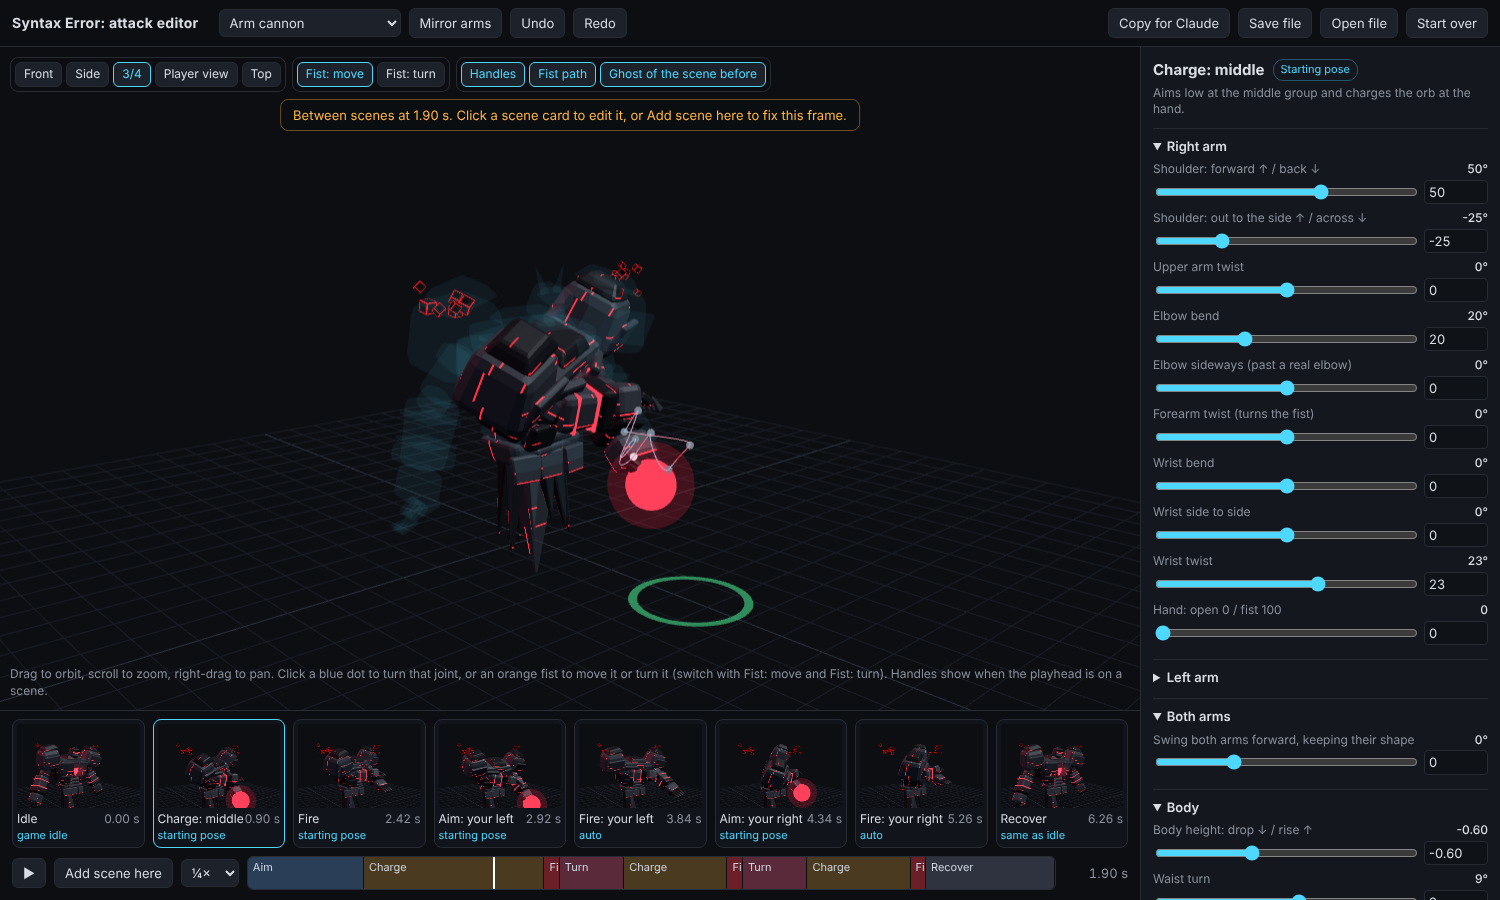
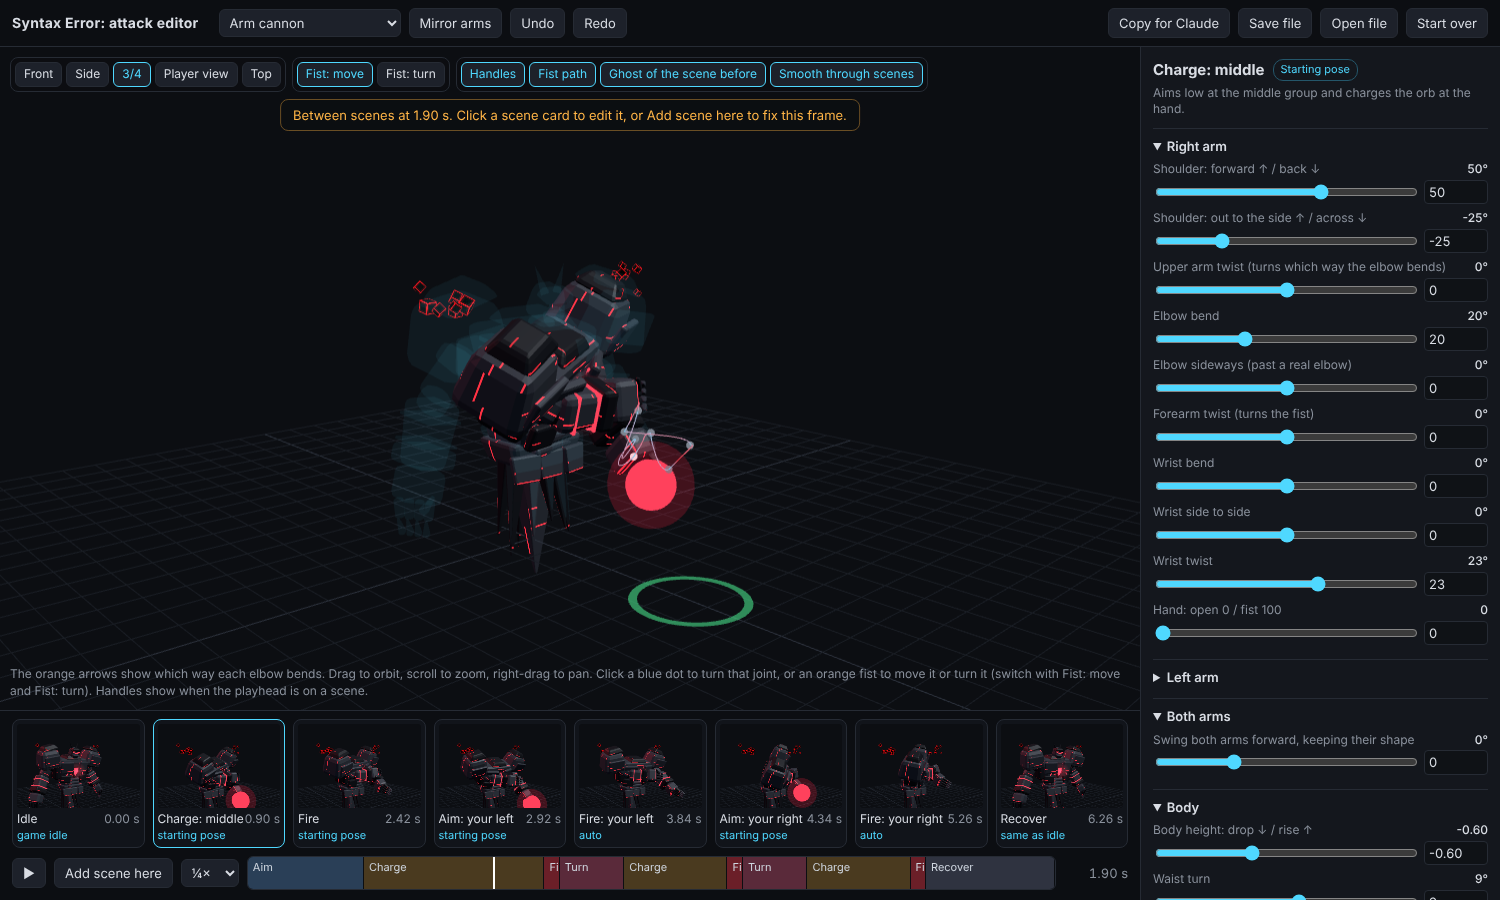
Attack editor: arrows show which way each elbow bends
The upper-arm twist turns an elbow's bend, and a large twist (Gid's idle had 100 degrees
from before the hand fix) points the forearms out and back. An arrow at each elbow shows
the bend direction, and the twist slider says what it does.

Claude-Session: https://claude.ai/code/session_01MQWzxTE7u1eeEzMzyN6zb9

diff --git a/tools/pose-editor/index.html b/tools/pose-editor/index.html
@@ -100,7 +100,7 @@
       </div>
     </div>
     <div id="between" hidden></div>
-    <div id="hint">Drag to orbit, scroll to zoom, right-drag to pan. Click a blue dot to turn that joint, or an orange fist to move it or turn it (switch with Fist: move and Fist: turn). Handles show when the playhead is on a scene.</div>
+    <div id="hint">The orange arrows show which way each elbow bends. Drag to orbit, scroll to zoom, right-drag to pan. Click a blue dot to turn that joint, or an orange fist to move it or turn it (switch with Fist: move and Fist: turn). Handles show when the playhead is on a scene.</div>
   </div>
   <aside>
     <div class="scenehead"><h2 id="sceneName">Strike</h2><span class="badge" id="badge"></span><span class="sp" style="flex:1"></span><button id="toAuto" hidden>Reset this scene</button><button id="delScene" hidden>Delete this scene</button></div>
@@ -197,7 +197,7 @@ for (const [k, side, grp] of [['R', 'right', 'Right arm'], ['L', 'left', 'Left a
   // human couldn't do
   field(`shoulder${k}.flex`, 'Shoulder: forward ↑ / back ↓', grp, -180, 180);
   field(`shoulder${k}.abd`, 'Shoulder: out to the side ↑ / across ↓', grp, -90, 180);
-  field(`shoulder${k}.twist`, 'Upper arm twist', grp, -180, 180);
+  field(`shoulder${k}.twist`, 'Upper arm twist (turns which way the elbow bends)', grp, -180, 180);
   field(`elbow${k}.flex`, 'Elbow bend', grp, -60, 180);
   field(`elbow${k}.side`, 'Elbow sideways (past a real elbow)', grp, -90, 90);
   field(`elbow${k}.twist`, 'Forearm twist (turns the fist)', grp, -180, 180);
@@ -617,6 +617,14 @@ const HANDLE = [
   ['chest', B.chest, [0, 0, 0], 'rot'], ['spine', B.spine, [0, 0, 0], 'rot'], ['head', B.head, [0, 0, 0], 'rot'], ['hips', B.hips, [0, 0, 0], 'move'],
 ];
 const handleMeshes = [];
+// an arrow at each elbow showing which way it bends: the upper arm's twist turns it, the elbow's own
+// twist only rolls the forearm
+const bendArrows = ['R', 'L'].map(k => {
+  const R0 = rig.rest['elbow' + k], a = R0.a.clone(), f = R0.f.clone().sub(a.clone().multiplyScalar(R0.f.dot(a))).normalize();
+  const ar = new THREE.ArrowHelper(f, B['fore' + k].position.clone(), 2.6, 0xffb547, 0.7, 0.45);
+  ar.traverse(o => { o.userData.jcSkip = true; if (o.material) { o.material.depthTest = false; o.material.transparent = true; o.material.opacity = 0.9; } o.renderOrder = 11; });
+  B['arm' + k].add(ar); return ar;
+});
 for (const [name, bone, off, kind] of HANDLE) {
   const m = new THREE.Mesh(new THREE.SphereGeometry(kind === 'ik' ? 0.55 : 0.38, 16, 12), new THREE.MeshBasicMaterial({ color: kind === 'ik' ? '#ffb547' : '#4fd8ff', depthTest: false, transparent: true, opacity: 0.9 }));
   m.renderOrder = 10; m.userData = { jcSkip: true, handle: name, kind, bone }; m.position.set(...off);
@@ -930,7 +938,7 @@ const tcam = new THREE.PerspectiveCamera(32, 320 / 220, 0.1, 300); tcam.position
 function renderThumb(id) {
   const vis = [tc.getHelper().visible, path.visible, keyDots.visible, ghost.group.visible];
   tc.getHelper().visible = path.visible = keyDots.visible = ghost.group.visible = false;
-  handleMeshes.forEach(h => { h.visible = false; });
+  handleMeshes.forEach(h => { h.visible = false; }); bendArrows.forEach(a => { a.visible = false; });
   const size = renderer.getSize(new THREE.Vector2()), pr = renderer.getPixelRatio();
   poseKey(kit, id); kit.group.position.y = 0; kit.group.updateMatrixWorld(true);
   renderer.setScissorTest(true); renderer.setViewport(0, 0, 320 / pr, 220 / pr); renderer.setScissor(0, 0, 320 / pr, 220 / pr);
@@ -1079,6 +1087,7 @@ function frame() {
   path.visible = keyDots.visible = showPath;
   const on = onScene();
   handleMeshes.forEach(h => { h.visible = showHandles && on; });
+  bendArrows.forEach(a => { a.visible = showHandles && on; });
   if (!on && tc.object) { tc.detach(); grab = null; }
   tc.getHelper().visible = !playing && !!tc.object;
   $('addScene').disabled = playing || on;
@@ -1164,7 +1173,7 @@ window.editor = {
   turn: (name, e) => { select(name); const h = HANDLE.find(x => x[0] === name); h[1].rotation.set(...e); const want = h[1].quaternion.clone(); onGizmo(); poseKey(kit, cur); return { deg: +(2 * Math.acos(Math.min(1, Math.abs(want.dot(h[1].quaternion)))) * R2D).toFixed(2), spec: round(R[cur]) }; },
   turnFist: (k, e) => { setFist('turn'); select('fist' + k); B['hand' + k].rotation.set(...e); onGizmo(); const w = new THREE.Quaternion(); poseKey(kit, cur); kit.group.updateMatrixWorld(true); B['hand' + k].getWorldQuaternion(w); return { cur, q: w.toArray().map(x => +x.toFixed(3)) }; },
   cur: () => cur, time: () => time,
-  near: t => sceneNear(t), add: t => { time = t; addSceneAt(t); return cur; }, del: id => deleteScene(id), segs: () => SEGS, scenes: () => SCENES.map(x => x.id),
+  near: t => sceneNear(t), handleWorld: name => { const h = handleMeshes.find(m => m.userData.handle === name), v = new THREE.Vector3(); kit.group.updateMatrixWorld(true); h.getWorldPosition(v); return v.toArray().map(x => +x.toFixed(2)); }, add: t => { time = t; addSceneAt(t); return cur; }, del: id => deleteScene(id), segs: () => SEGS, scenes: () => SCENES.map(x => x.id),
   handleScreen: name => { const h = handleMeshes.find(m => m.userData.handle === name), v = new THREE.Vector3(); h.getWorldPosition(v); v.project(camera); const r = renderer.domElement.getBoundingClientRect(); return [r.left + (v.x + 1) / 2 * r.width, r.top + (1 - v.y) / 2 * r.height]; },
   state: () => state, R: () => R, select, pick, exportText, refresh, checkNow, timelineProblems: () => timelineProblems, setTime: t => { time = t; need(); }, play: on => { playing = on; updatePlay(); } };
 window.ready = true;
